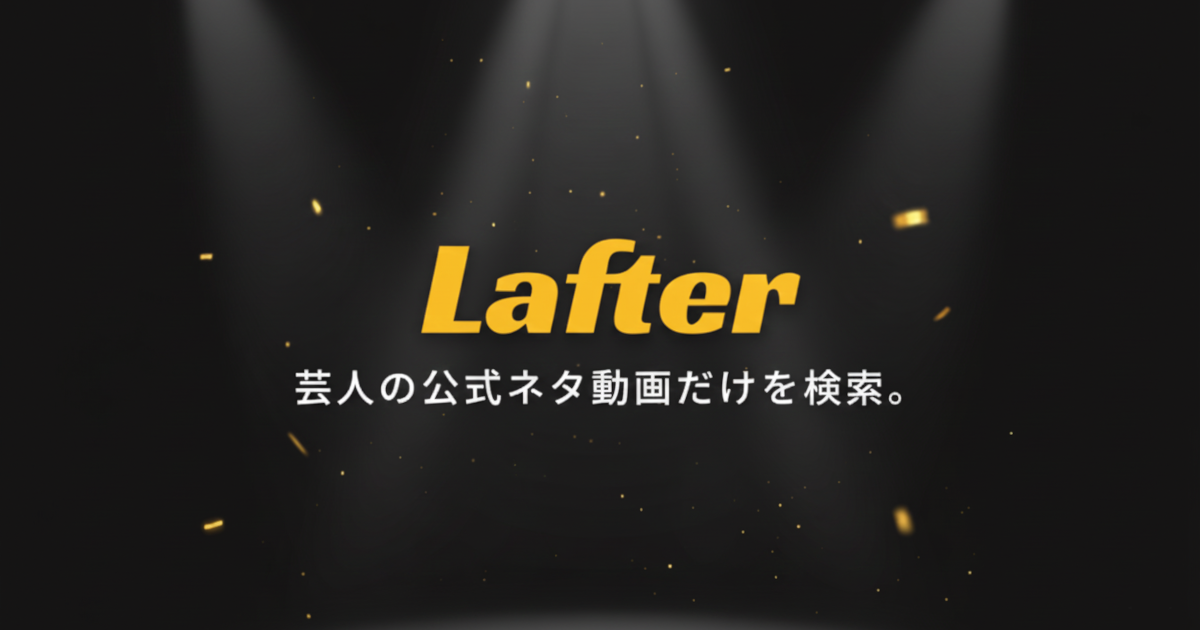
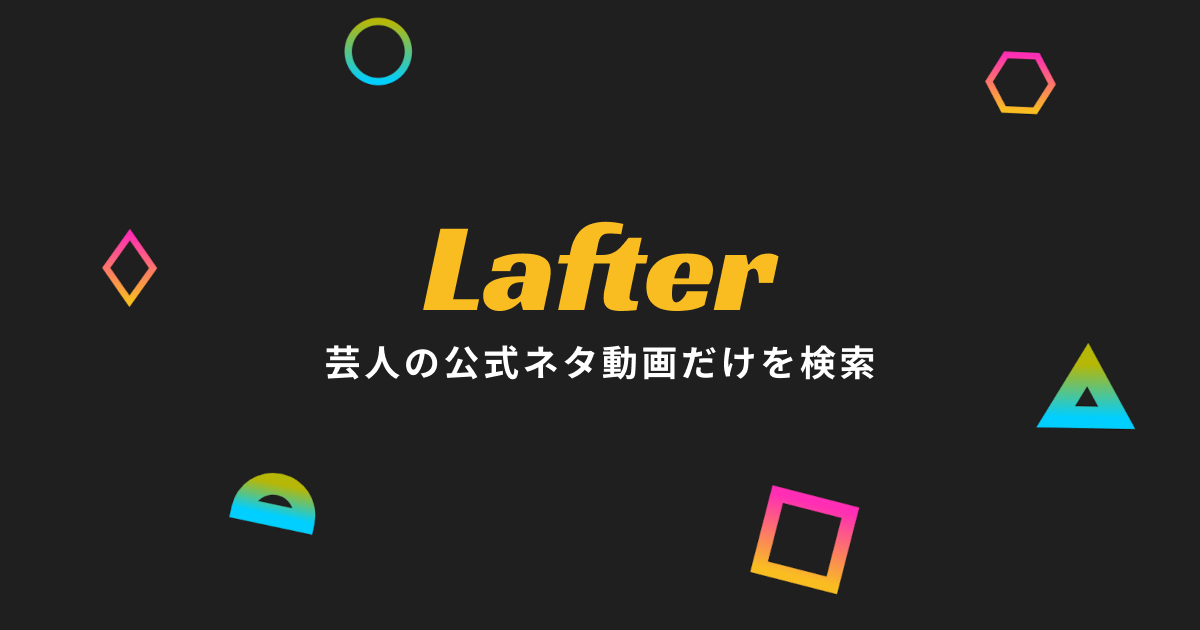
OGP変更

diff --git a/src/app/opengraph-image/route.tsx b/src/app/opengraph-image/route.tsx
@@ -9,8 +9,8 @@ const size = {
 } as const;
 const contentType = "image/png" as const;
 // テキスト領域の最大幅・最大高さを定数化し、複数箇所で共有して制約を統一します。
-const textMaxWidth = 1000;
-const textMaxHeight = 400;
+const textMaxWidth = 900;
+const textMaxHeight = 350;
 const headingFontSize = 60;
 const headingLineHeight = 1.4;
 const approximateCharsPerLine = Math.max(10, Math.floor(textMaxWidth / (headingFontSize * 0.9)));
